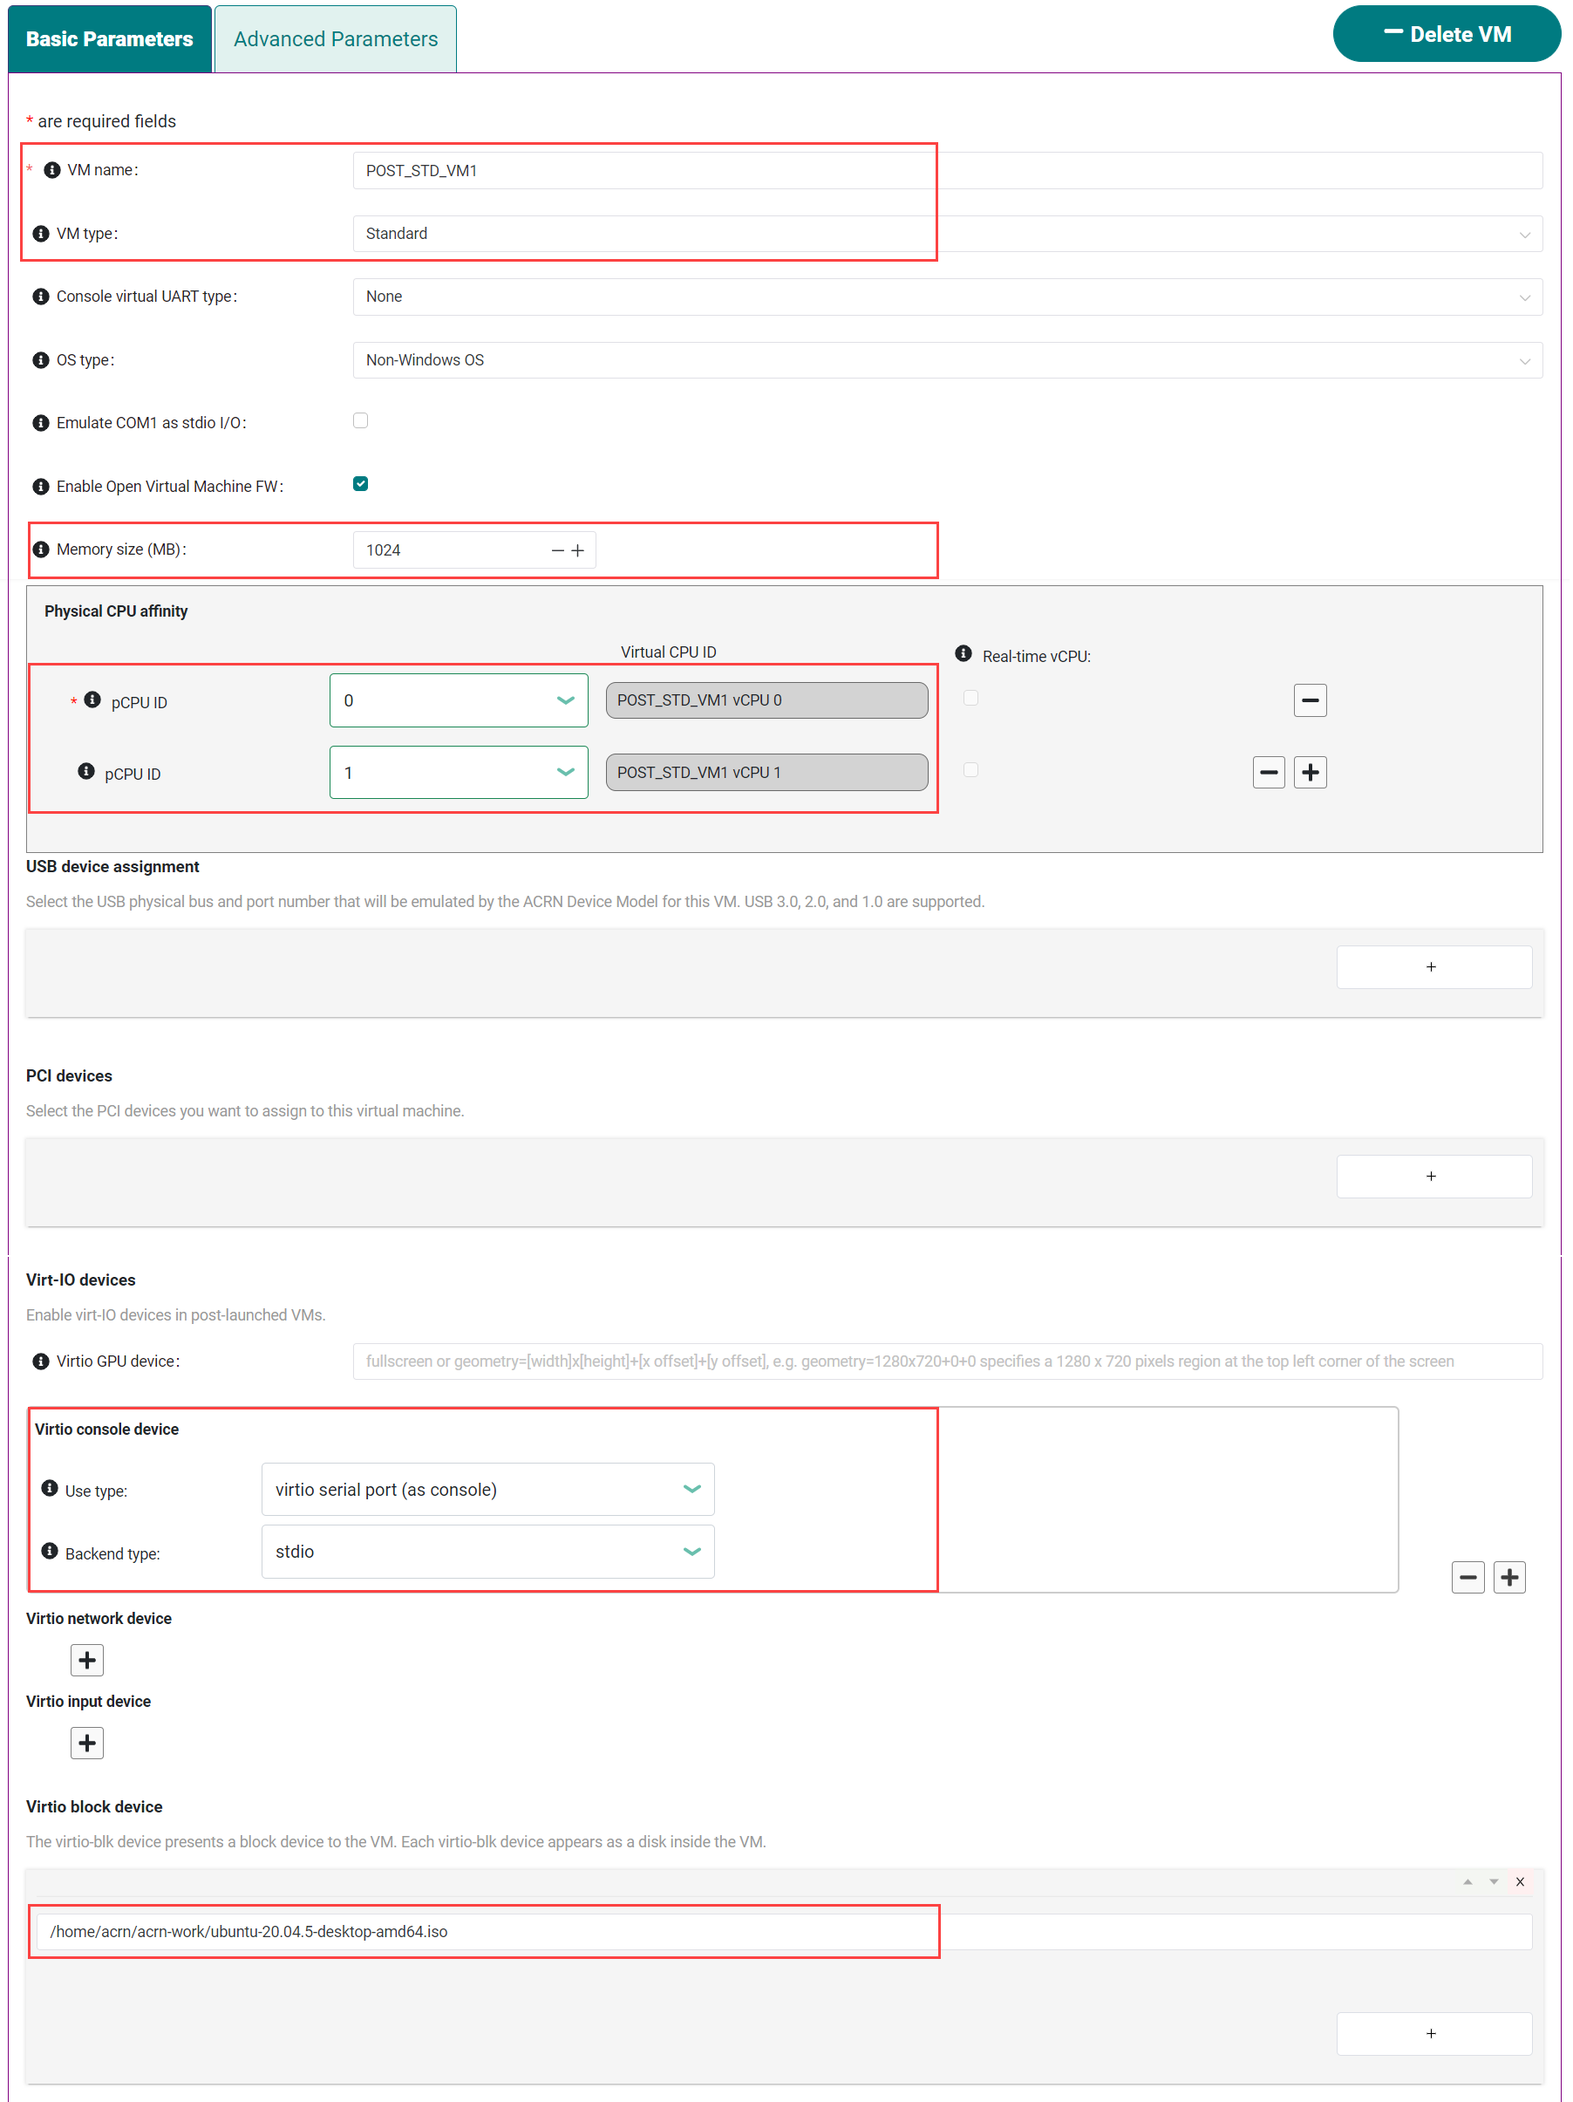
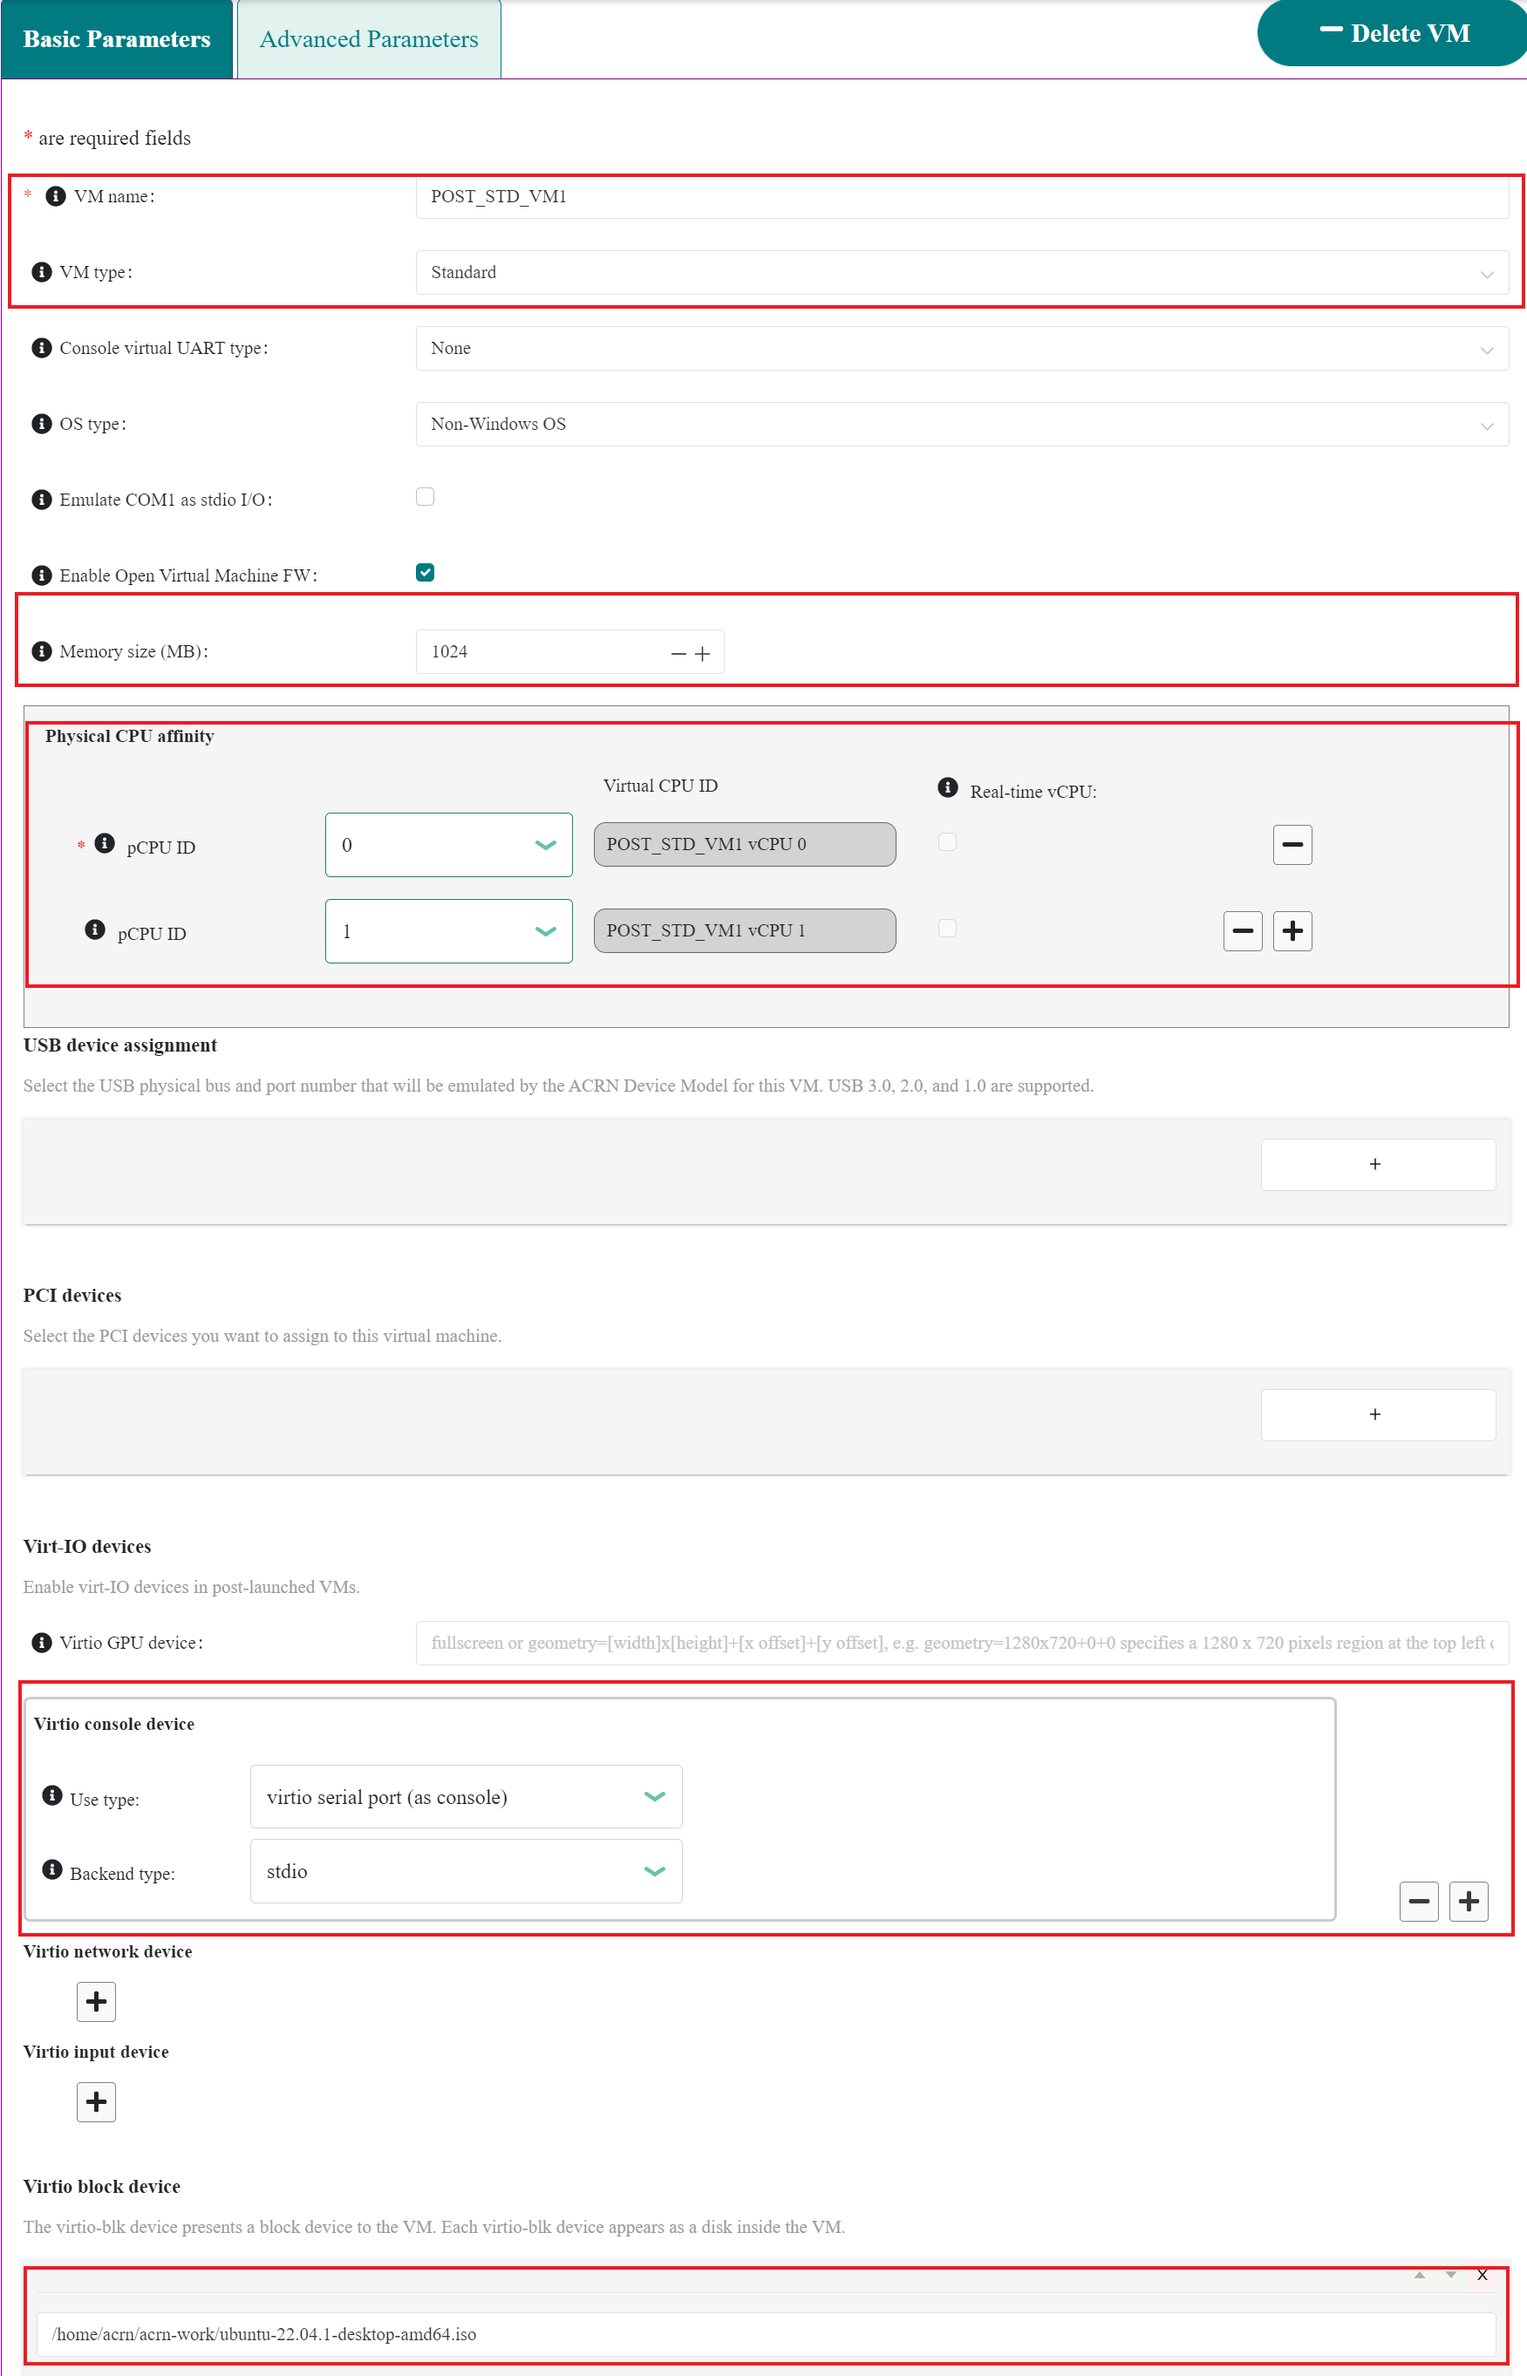
update ubuntu version from 20.04.5 to 22.04.1 in GSG document

diff --git a/doc/getting-started/getting-started.rst b/doc/getting-started/getting-started.rst
@@ -38,15 +38,15 @@ Before you begin, make sure your machines have the following prerequisites:
 
 * Software specifications
 
-  - Ubuntu Desktop 20.04 LTS (ACRN development is not supported on Windows.)
+  - Ubuntu Desktop 22.04 LTS (ACRN development is not supported on Windows.)
 
 **Target system**:
 
 * Hardware specifications
 
   - Target board (see :ref:`hardware_tested`)
-  - Ubuntu Desktop 20.04 LTS bootable USB disk: download the latest `Ubuntu
-    Desktop 20.04 LTS ISO image <https://releases.ubuntu.com/focal/>`__ and
+  - Ubuntu Desktop 22.04 LTS bootable USB disk: download the latest `Ubuntu
+    Desktop 22.04 LTS ISO image <https://releases.ubuntu.com/jammy/>`__ and
     follow the `Ubuntu documentation
     <https://ubuntu.com/tutorials/create-a-usb-stick-on-ubuntu#1-overview>`__
     for creating the USB disk.
@@ -80,7 +80,7 @@ Prepare the Development Computer
 To set up the ACRN build environment on the development computer:
 
 #. On the development computer, run the following command to confirm that Ubuntu
-   Desktop 20.04 is running:
+   Desktop 22.04 is running:
 
    .. code-block:: bash
 
@@ -119,7 +119,7 @@ To set up the ACRN build environment on the development computer:
 
       sudo apt install -y gcc git make vim libssl-dev libpciaccess-dev uuid-dev \
            libsystemd-dev libevent-dev libxml2-dev libxml2-utils libusb-1.0-0-dev \
-           python3 python3-pip python3.8-venv libblkid-dev e2fslibs-dev \
+           python3 python3-pip libblkid-dev e2fslibs-dev \
            pkg-config libnuma-dev libcjson-dev liblz4-tool flex bison \
            xsltproc clang-format bc libpixman-1-dev libsdl2-dev libegl-dev \
            libgles-dev libdrm-dev gnu-efi libelf-dev
@@ -202,13 +202,13 @@ Example of a target system with cables connected:
 Install OS on the Target
 ============================
 
-The target system needs Ubuntu Desktop 20.04 LTS to run the Board Inspector
+The target system needs Ubuntu Desktop 22.04 LTS to run the Board Inspector
 tool. You can read the full instructions to download, create a bootable USB
 drive, and `Install Ubuntu desktop
 <https://ubuntu.com/tutorials/install-ubuntu-desktop#1-overview>`_ on the Ubuntu
 site.  We'll provide a summary here:
 
-To install Ubuntu 20.04:
+To install Ubuntu 22.04:
 
 #. Insert the Ubuntu bootable USB disk into the target system.
 
@@ -562,7 +562,7 @@ post-launched User VM. Each User VM has its own launch script.
       log in to the User VM later in this guide.
 
    #. For **Virtio block device**, click **+** and enter
-      ``/home/acrn/acrn-work/ubuntu-20.04.5-desktop-amd64.iso``. This parameter
+      ``/home/acrn/acrn-work/ubuntu-22.04.1-desktop-amd64.iso``. This parameter
       specifies the VM's OS image and its location on the target system. Later
       in this guide, you will save the ISO file to that directory. (If you used
       a different username when installing Ubuntu on the target system, here's
@@ -773,9 +773,9 @@ The ACRN hypervisor boots the Ubuntu Service VM automatically.
 Launch the User VM
 *******************
 
-#. On the target system, use the web browser to go to the `official Ubuntu website <https://releases.ubuntu.com/focal/>`__ to
-   get the Ubuntu Desktop 20.04 LTS ISO image
-   ``ubuntu-20.04.5-desktop-amd64.iso`` for the User VM. (The same image you
+#. On the target system, use the web browser to go to the `official Ubuntu website <https://releases.ubuntu.com/jammy/>`__ to
+   get the Ubuntu Desktop 22.04 LTS ISO image
+   ``ubuntu-22.04.1-desktop-amd64.iso`` for the User VM. (The same image you
    specified earlier in the ACRN Configurator UI.) Alternatively, instead of
    downloading it again, you can use a USB drive or ``scp`` to copy the ISO
    image file to the ``~/acrn-work`` directory on the target system.
@@ -787,7 +787,7 @@ Launch the User VM
 
    .. code-block:: bash
 
-      cp ~/Downloads/ubuntu-20.04.5-desktop-amd64.iso ~/acrn-work
+      cp ~/Downloads/ubuntu-22.04.1-desktop-amd64.iso ~/acrn-work
 
 #. Launch the User VM:
 
@@ -802,18 +802,18 @@ Launch the User VM
 
    .. code-block:: console
 
-      Ubuntu 20.04.5 LTS ubuntu hvc0
+      Ubuntu 22.04.1 LTS ubuntu hvc0
 
       ubuntu login:
 
-#. Log in to the User VM. For the Ubuntu 20.04 ISO, the user is ``ubuntu``, and
+#. Log in to the User VM. For the Ubuntu 22.04 ISO, the user is ``ubuntu``, and
    there's no password.
 
 #. Confirm that you see output similar to this example:
 
    .. code-block:: console
 
-      Welcome to Ubuntu 20.04.5 LTS (GNU/Linux 5.13.0-30-generic x86_64)
+      Welcome to Ubuntu 22.04.1 LTS (GNU/Linux 5.15.0-43-generic x86_64)
 
       * Documentation:  https://help.ubuntu.com
       * Management:     https://landscape.canonical.com
@@ -842,7 +842,7 @@ Launch the User VM
    .. code-block:: console
 
       ubuntu@ubuntu:~$ uname -r
-      5.15.0-46-generic
+      5.15.0-43-generic
 
    Then open a new terminal window and use the command to see that the Service
    VM is running the ``acrn-kernel`` Service VM image:
